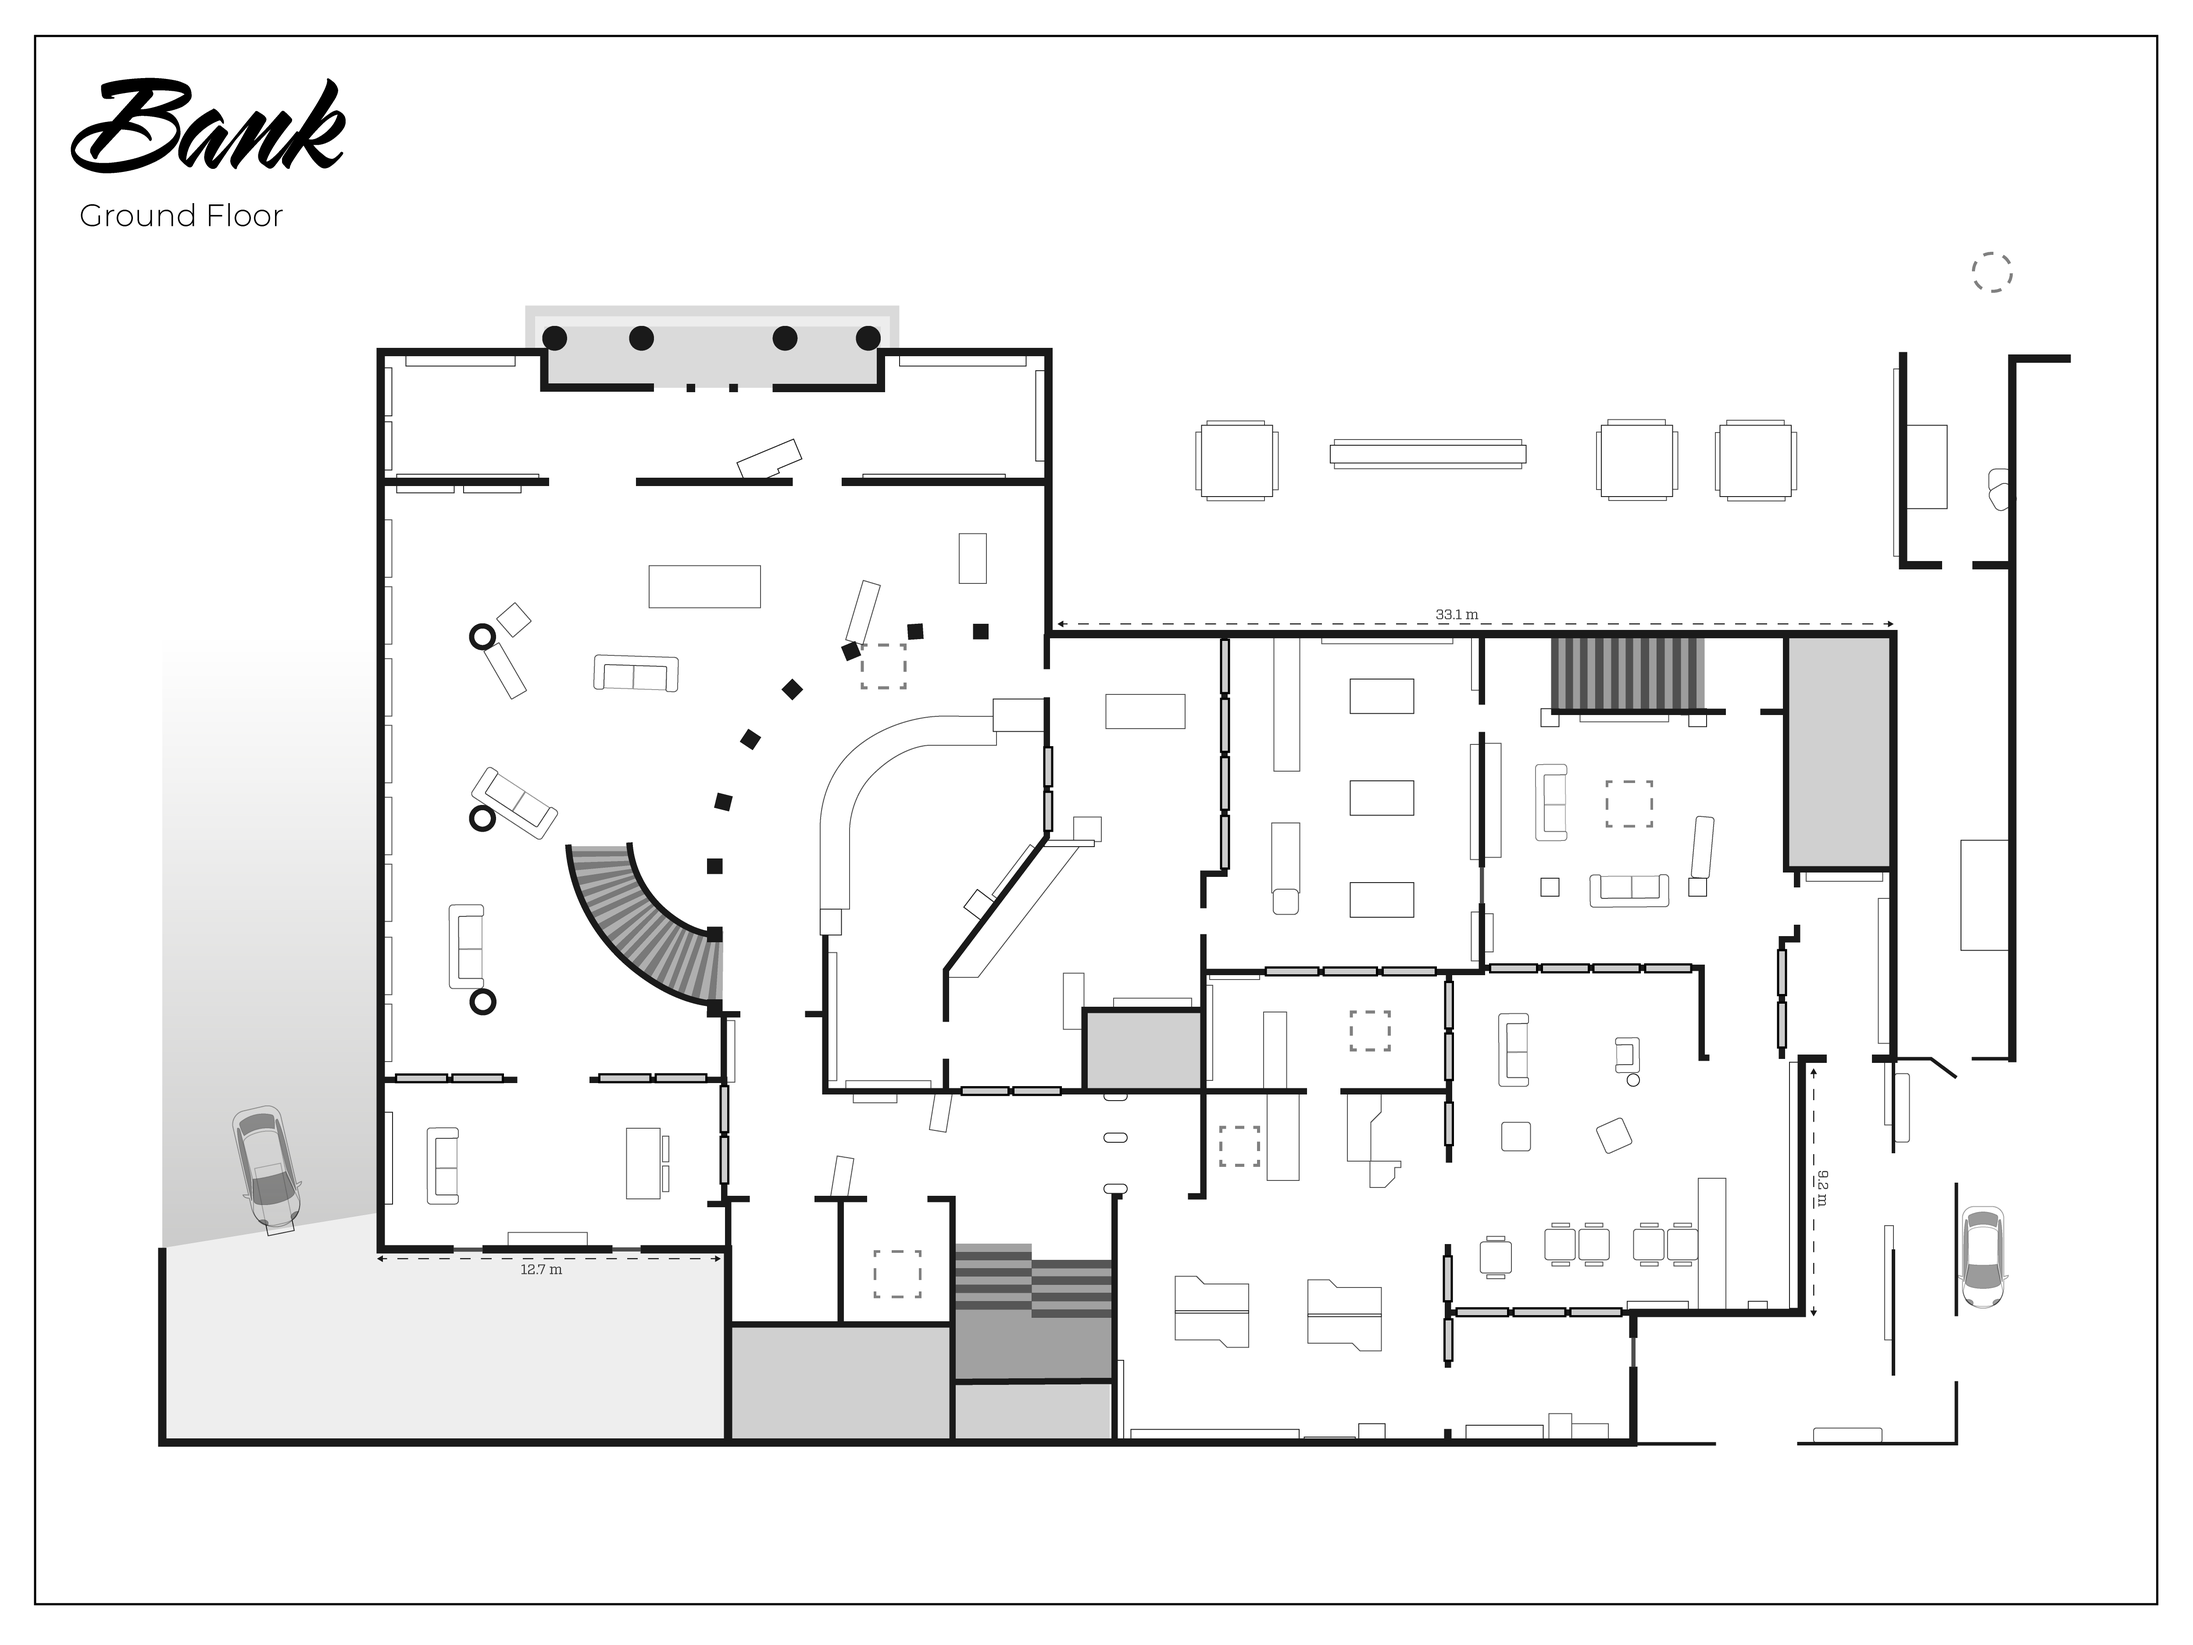
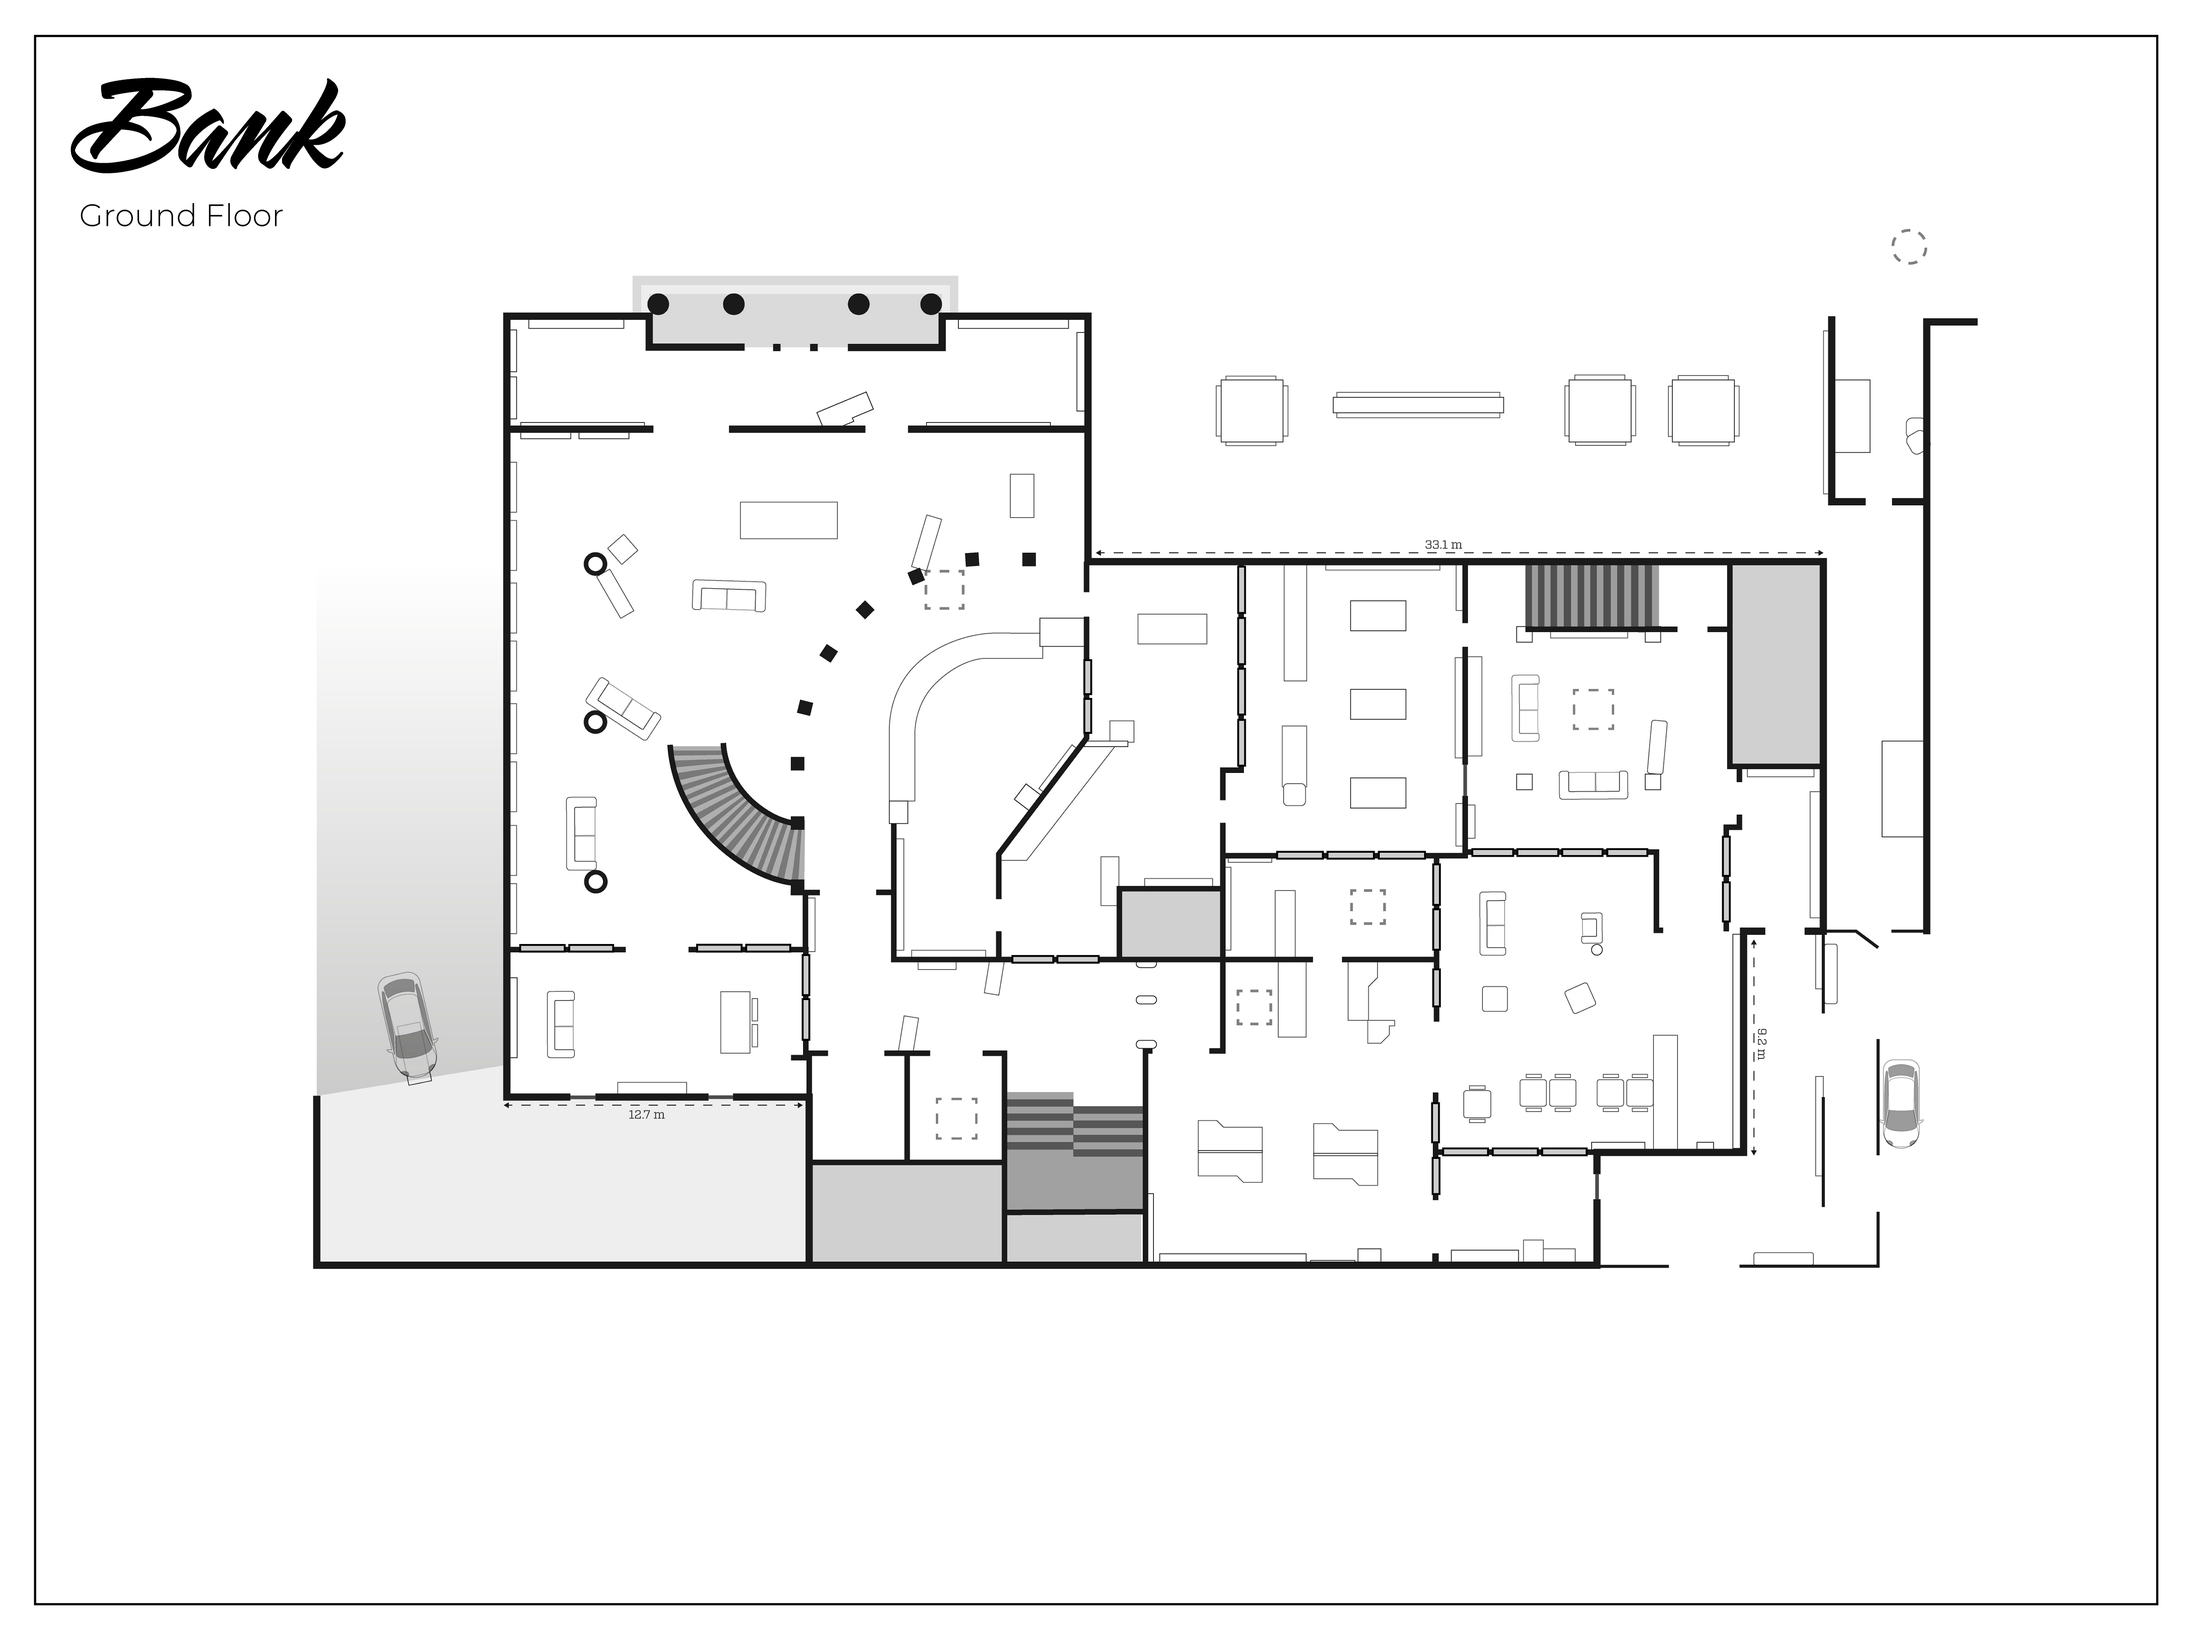
Put Bank's three floors in one frame
The Sternab basement is drawn about 11 m (716 px) north of where the ground
floor places the same world point, and the top floor about 1.5 m off; replay
fits of each floor put the stair transitions on the drawn stairs of both
floors they join. All three floors are resampled from their own fits into
one frame at 55 px/m (0.87x, so the basement car park still fits inside the
frame); frame and heading stay in place. Callouts move with the drawing.

diff --git a/docs/content.md b/docs/content.md
@@ -58,6 +58,7 @@ Villaの構造変更は地下のみのため、2階・1階はSternab氏の`Villa
 | Fortress | 南北方向が1.42倍に圧縮。2階は1階の0.90倍の縮尺で別の位置。2階南東の階段がない | 両階層のSVGを同じ縮尺（54 px/m、4800×3600）へ変換。2階南東にU字階段を追加 |
 | アジト | 3階層とも東西方向が1.19倍に引き伸ばされていた（縦横の縮尺64.7×54.6 px/m） | 3階層のSVGの図形を東西方向に0.843倍し、54.57 px/mの同一縮尺で中央に配置。見出しと枠は固定 |
 | Border | 1階が2階の1.11倍（82.2対74 px/m）の縮尺で別の位置 | 1階を2階の縮尺・位置へ再標本化。2階は原図のまま |
+| Bank | 地下が1階より南へ約11 m（716 px）ずれた位置。2階も約1.5 mずれていた | 3階層を各階層の照合結果から共通の位置と縮尺（55 px/m、原図の0.87倍）へ再標本化。地下の駐車場まで枠内に収めるため縮小 |
 
 Sternab氏の画像を補正した階層は、原図を軸ごとの拡大縮小と平行移動だけで再標本化（バイキュービック）し、外枠と見出しは原図の位置のまま残しています。`sourceFile`は元の原図名のままで、`assets/map-sources/`のJPEGが補正版です（sharpで品質98、4:4:4）。出典はSternab氏のままです。補正していない階層は原図と同一のファイルです。
 
